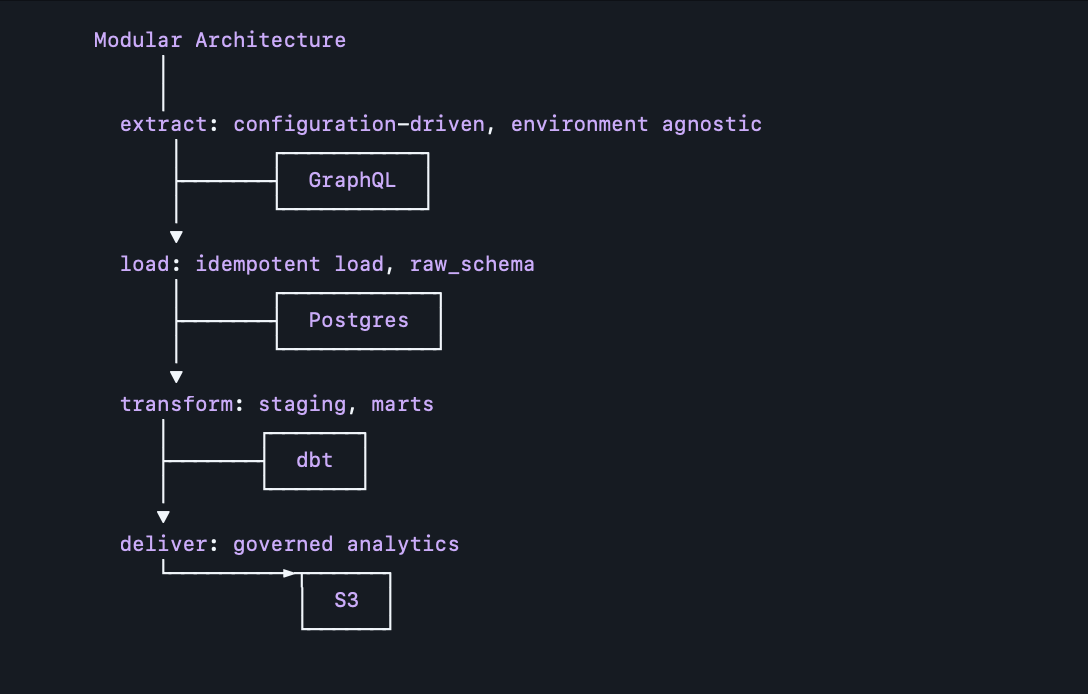
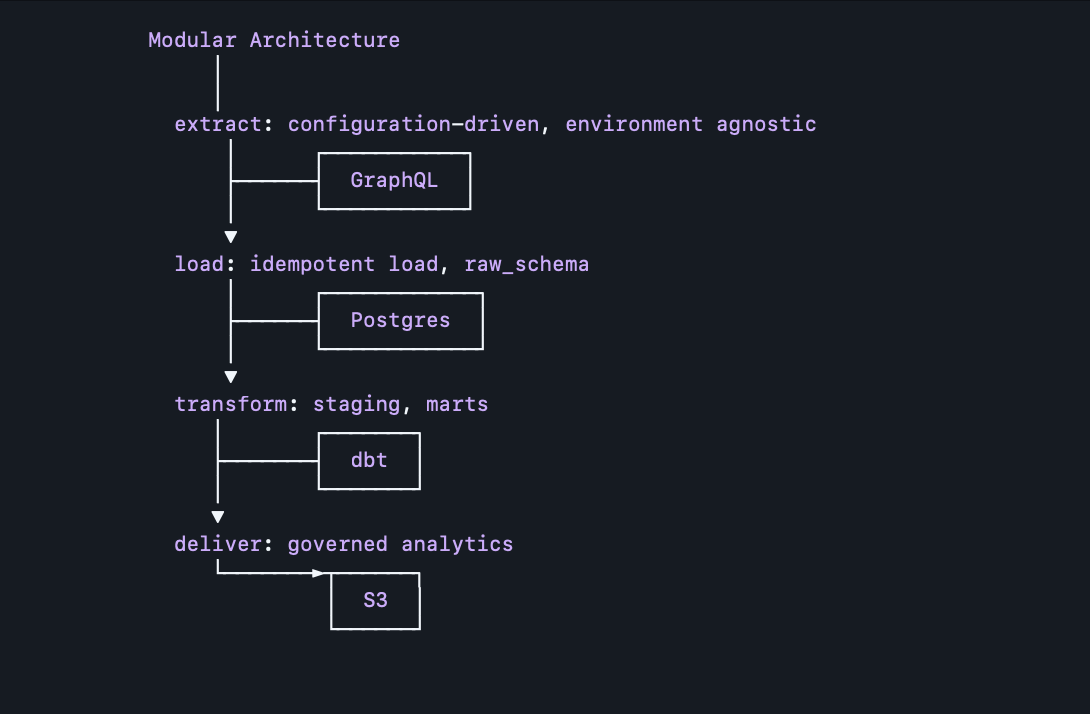
pipe2 edits problem + arch6

diff --git a/pipe2.html b/pipe2.html
@@ -315,7 +315,7 @@ p{margin-bottom: 12px;}
     <div class="container">
       <span class="project-tag">Data Engineer · Enterprise Software Platform </span>
       <h1>Multi-Tenant ELT Ingestion Framework</h1>
-
+      <h2>Custom Reusable Analytics Layer</h2>
       <br>
       <p style="text-align: left;" class="hero-subtitle measure">
       Designed a production-oriented ELT pipeline that centralized product telemetry from isolated, database-per-tenant GraphQL APIs into a governed analytics platform. The architecture was intentionally designed around several production constraints, including tenant isolation, restricted database access, and operational reliability. 
@@ -367,20 +367,30 @@ Amazon S3
         <div>
           <div class="measure">
             <p> 
-            Data was intentionally separated behind multiple isolated GraphQL API endpoints with predefined views. Each endpoint required independent ingestion and processing to preserve logical data separation. This prevented the ability to perform historical trend analysis and cross-environment comparisons necessary to deliver a range of analytics features within the product platforms analytics applications. Additionally, if we wanted to maintain principle-of-least-privilege (POLP) there had to be a vehicle providing internal teams with safe access to the data they needed.
+            We wanted to answer: <i>"What has happened across our product, customers, and environments, and what can we learn from it?“</i>
             </p>
             <br>
-            <div>
+          <details class="snippet fade-in" open>
+              <summary>1. No Analytics Infrastructure Existed</summary>
+                <p>The existing architecture consisted exclusively of an application layer serving real-time insights inside the product. No dedicated analytics infrastructure existed for historical analysis, cross-tenant aggregation, or trend discovery. </p>
+              </details>
+          <details class="snippet fade-in" open>
+              <summary>2. Cost Constraint</summary>
+              <p>Acquiring a Reporting Database (OLAP) was out of budget.</p>
+              </details>
+          <details class="snippet fade-in" >
+              <summary>3. Database-per-tenant architectural complexity</summary>
+                  <p>Customer data was intentionally separated behind multiple isolated GraphQL API endpoints with predefined views. Each endpoint required independent ingestion and processing to preserve logical data separation. This prevented the ability to perform historical trend analysis and cross-environment comparisons necessary to deliver a range of insights about our product and customers.</p>
+          
+              <div>
               <details class="snippet fade-in">
               <summary>Why were tenants isolated?</summary>
-                <p>The multi-tenancy framework utilizes datbase-per-tenant. Direct database access was intentionally prohibited for SOC compliance, to prevent tenant cross-contamination, and protect operational database performance.</p>
+                <p>The multi-tenancy framework utilizes datbase-per-tenant. Direct database access was intentionally prohibited for SOC2 compliance, to prevent tenant cross-contamination, and protect operational database performance.</p>
               </details>
               <details class="snippet fade-in">
               <summary>Why GraphQL instead of direct SQL?</summary>
-                <p>A GraphQL application layer provided precomputed analytics events via PostgreSQL materialized views (heartbeats, tab navigations, content views, etc.) which are refreshed at intervals ≤ 24hrs. Querying live tables introduce performance risk, security concerns, and inflexibility.</p>
-              </details>
-              <details class="snippet fade-in">
-              <summary>Why Materialized Views?</summary>
+                <p>A pre-existing GraphQL application layer was built to feed applications with provided precomputed analytics events from PostgreSQL materialized views (heartbeats, tab navigations, content views, etc.) refreshed at intervals ≤ 24hrs. </p>
+                <p>Querying live tables introduces performance risk, security concerns, and inflexibility.</p>
                 <p>Materialized Views solve this by providing:
                   <ul>
                     <li>performance isolation: queries run against pre-computed snapshot, not live data</li>
@@ -389,15 +399,14 @@ Amazon S3
                   </ul>    
                 </p>
               </details>
-
             </div>
+          </details>
 
-            <div class="highlight">
-              <strong>The Core Challenge:</strong> safely navigate complex tenant architecture while providing a myriad of product analytics
-            </div>
+         <div class="highlight">
+            <strong>The Core Challenge:</strong> provide a reusable analytics layer at no cost while navigating complex tenant architecture
           </div>
         </div>
-  
+      </div>  
     </div>
   </section>
 
@@ -479,9 +488,19 @@ Amazon S3
               </details>
               <details class="snippet fade-in">
               <summary><span class="dropdown-num">6</span>OBSERVABILITY - Tenant Migration Checks</summary>
-                <p>At the time of build multi-tenancy model was varied, and several tenants were being migrated. This meant that if a tenant were to  </p>
-                
-                <p>ToDO: Include Code Snippet on expected migration and dns site host</p>
+              <p>
+                  Tenants are frequently migrated. 
+                  If a tenant were move to a different backend stack, it would result in a job failure. 
+              </p>
+              <p>
+                  I produced a pre-emptive test that checked for both the expected stack and site host. A mismatch results in a warning log
+              </p>
+                  <img 
+                src="images/pipeline2-analytics/arch/arch_5.png"
+                alt="pipeline-diagram"
+                class="arch-image"
+                loading="lazy" decoding="async">
+
               </details>
 
           </div>

diff --git a/arch_diagrams.md b/arch_diagrams.md
@@ -232,6 +232,25 @@ for env, mv in jobs:
 
 					raw   →  staging  →  marts 
 							       ▼  
-						 domain separation
+						  domain separation
 					(content, usage, sessions)
+```
+
+# Architecture - 6
+```graphql
+#  from the site DNS: <service><stack><aws-id>
+#       <service> is the service-gateway
+#       <stack> identifies which stack owns that tenant
+
+   ...
+   if stack != expected_stack:
+      return {
+         "env": env,
+         "status": "MISMATCH",
+         "site_host": site_host,
+         "expected_stack": expected_stack,
+         "actual_stack": stack,
+      }
+   ... 
+
 ```
